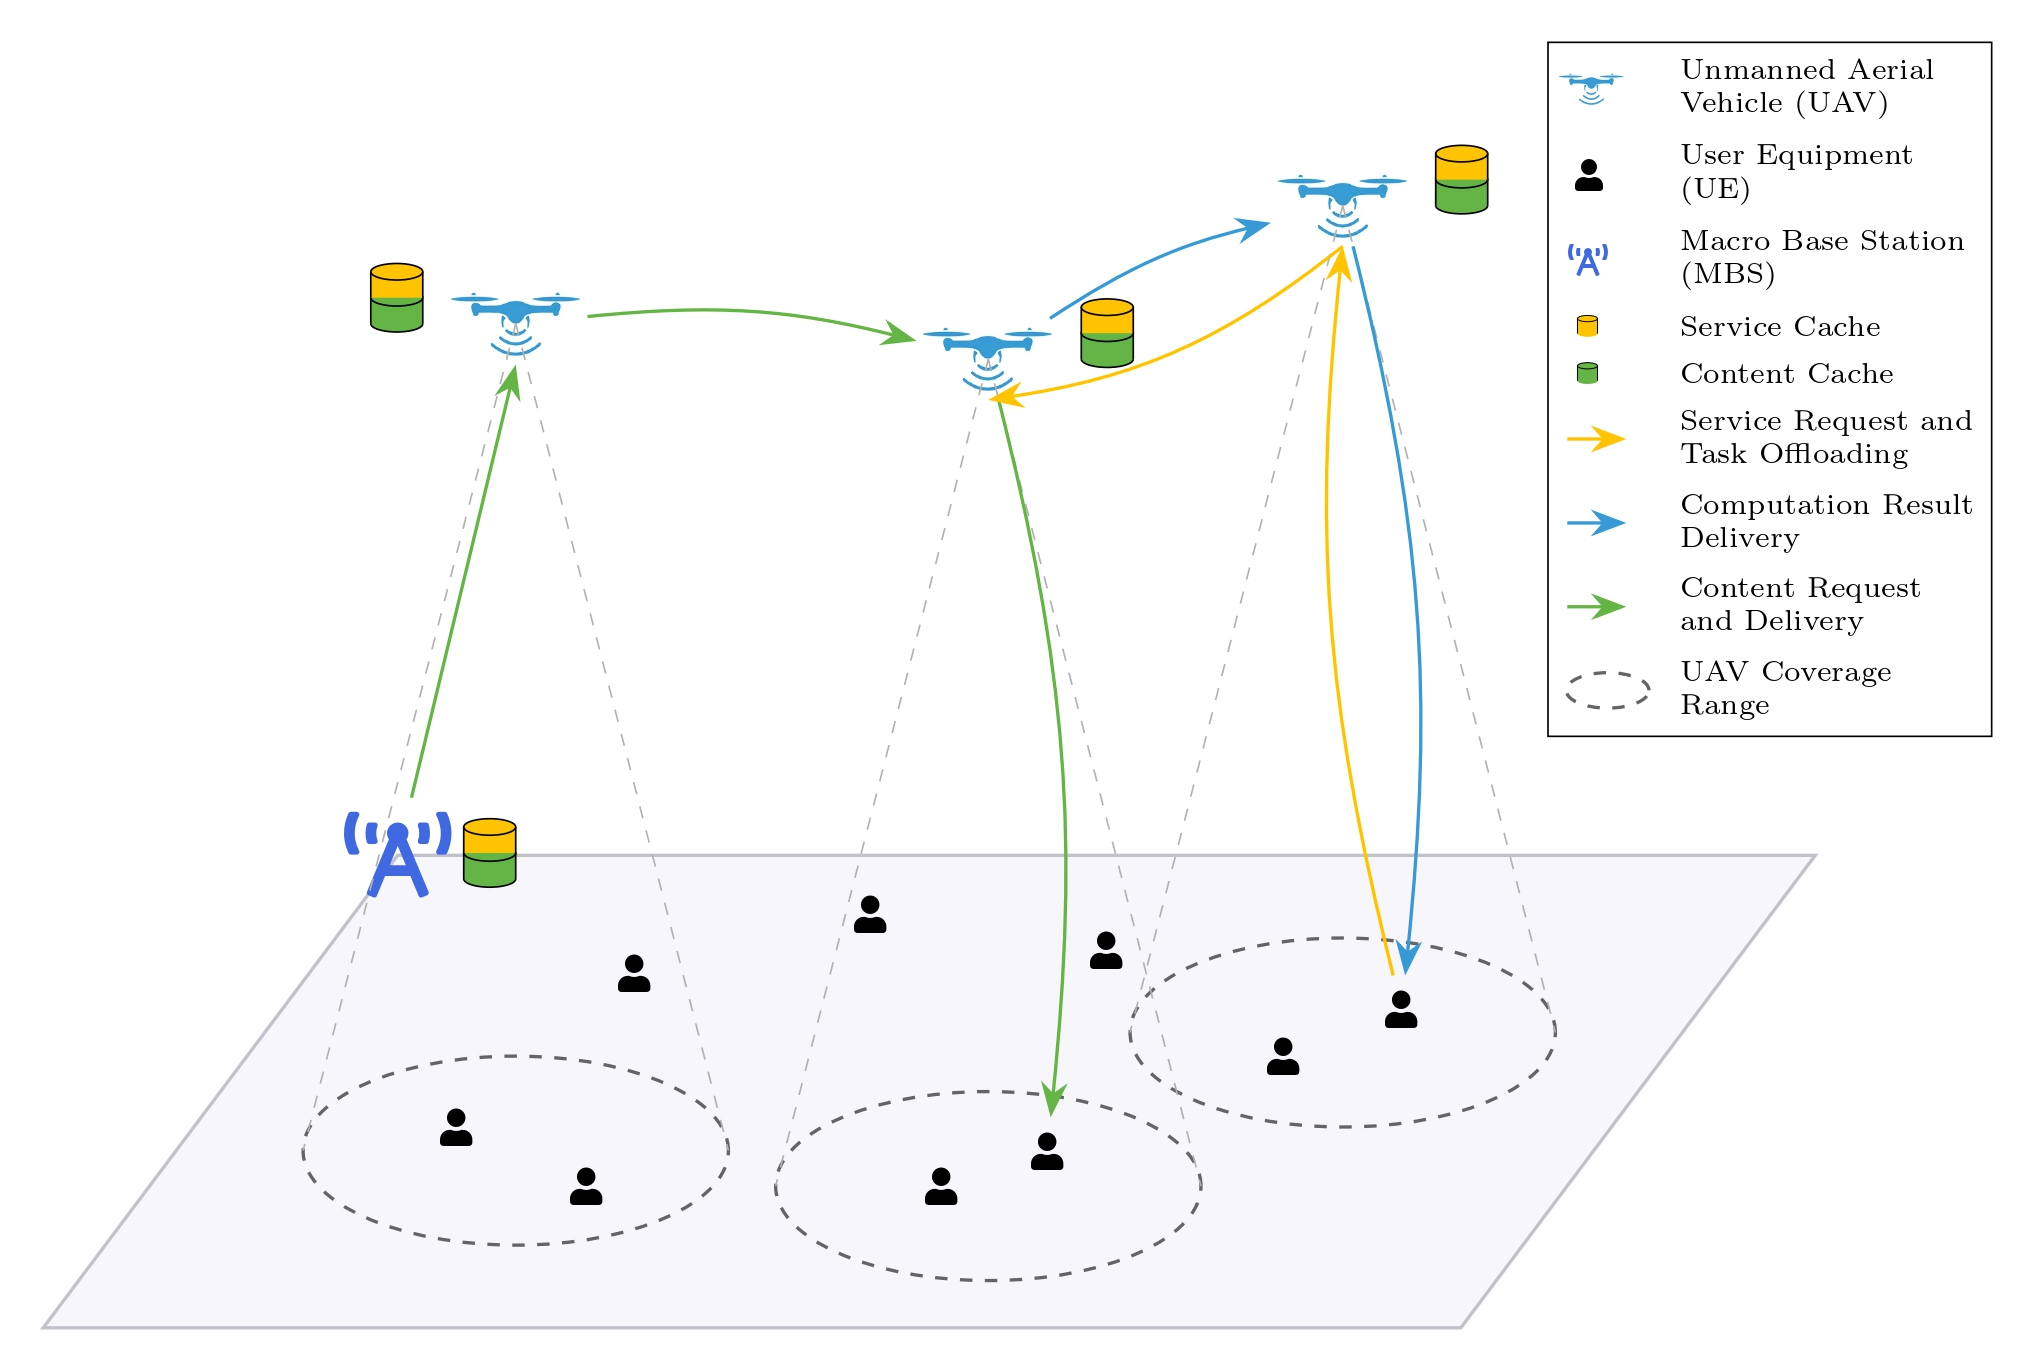
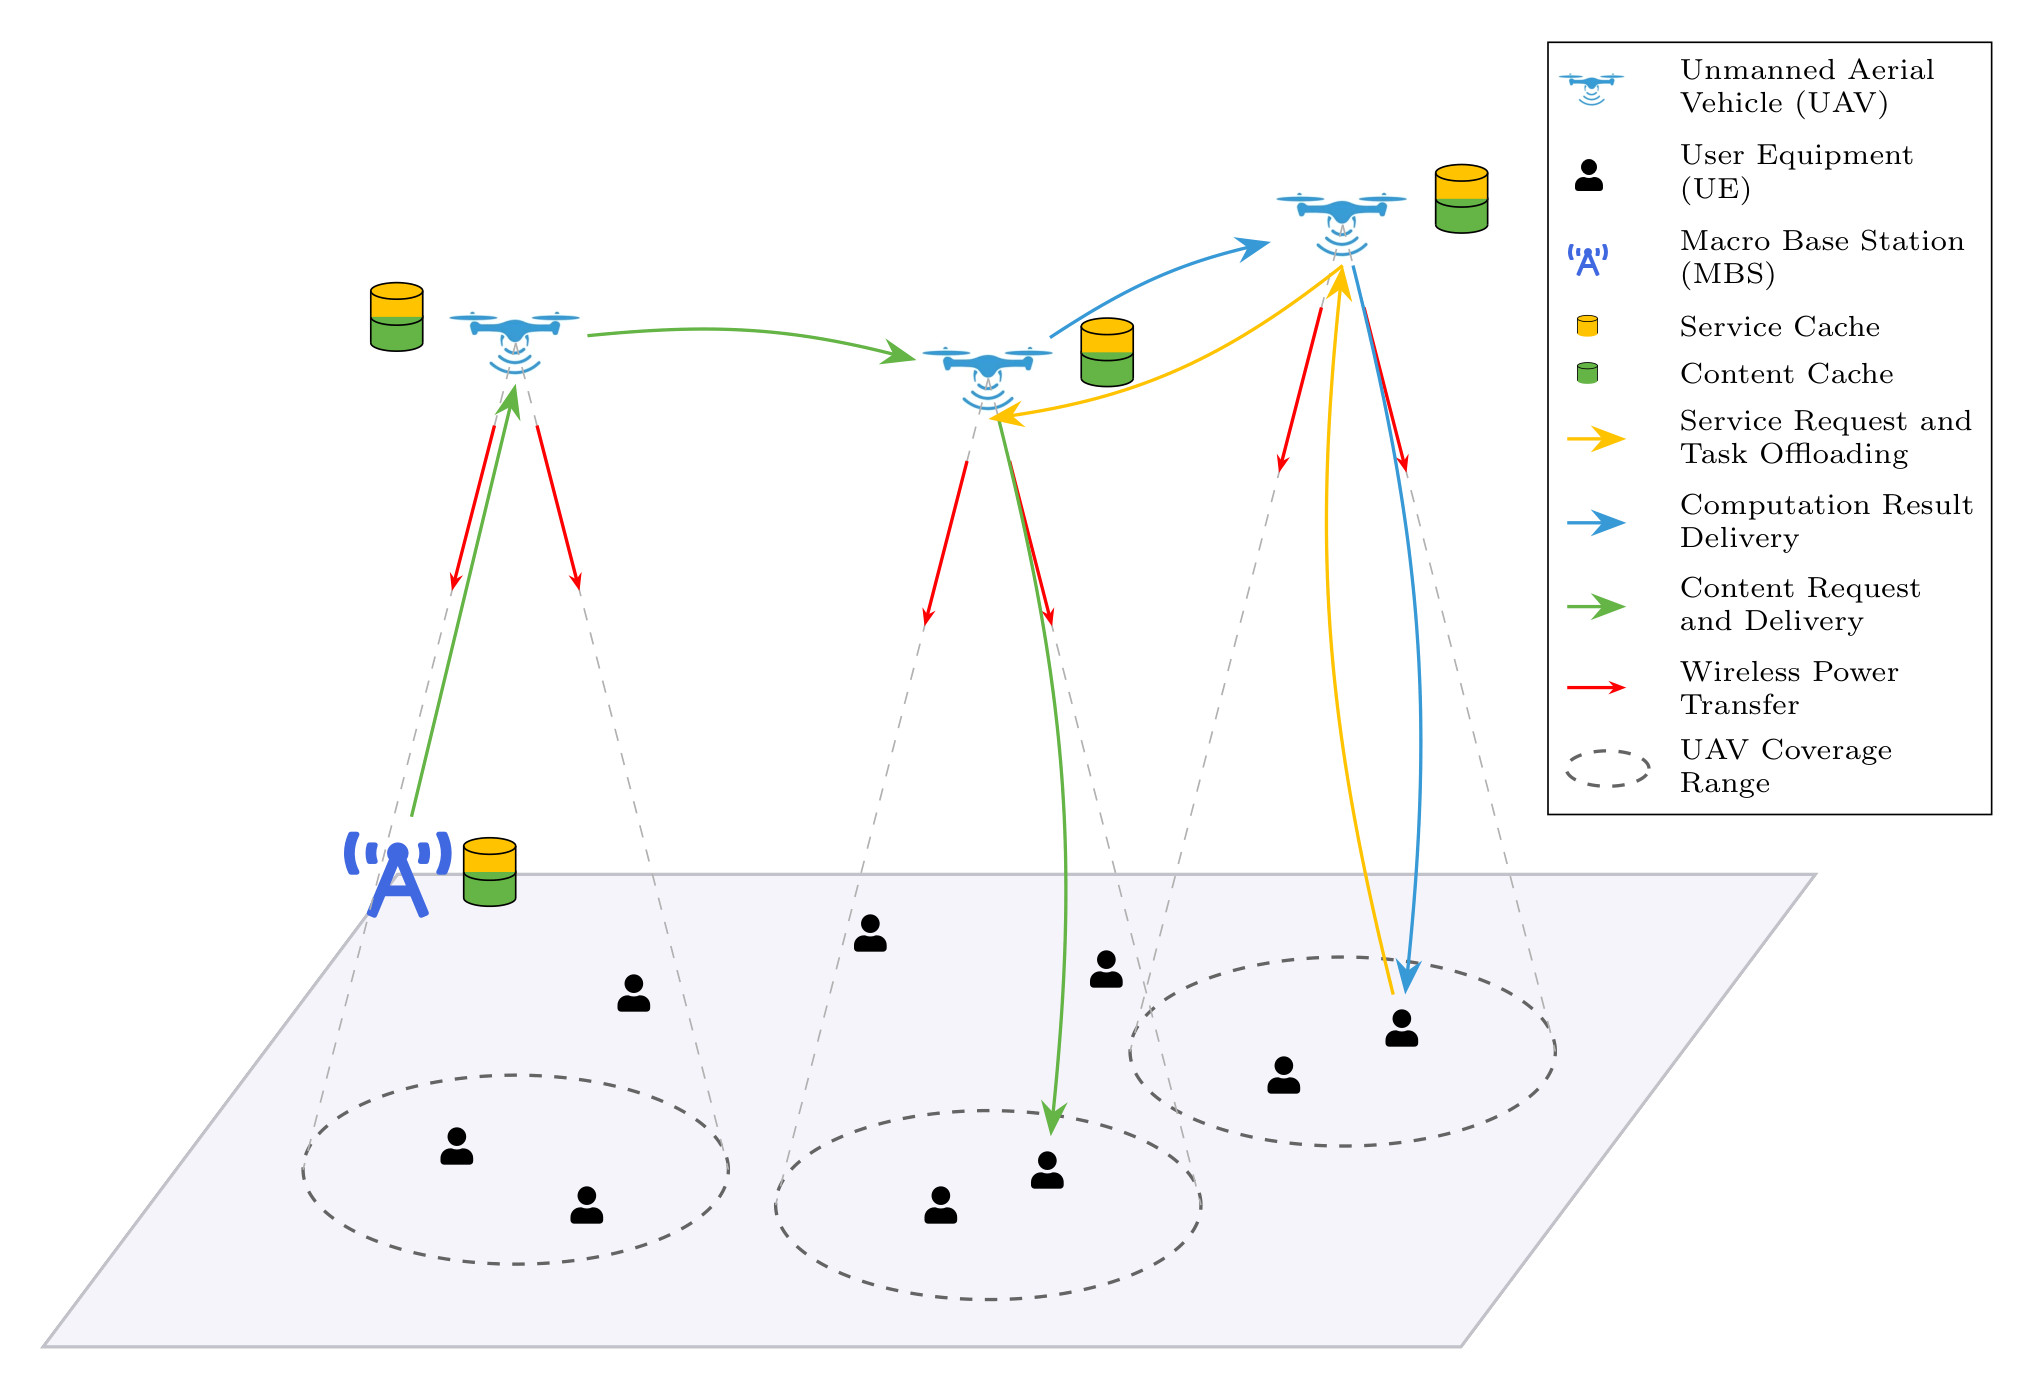
minor fixes

diff --git a/config.py b/config.py
@@ -108,7 +108,7 @@ EPSILON: float = 1e-9  # small value to prevent division by zero
 
 # Off-policy algorithm hyperparameters
 REPLAY_BUFFER_SIZE: int = 10**6  # B
-REPLAY_BATCH_SIZE: int = 64  # minibatch size
+REPLAY_BATCH_SIZE: int = 256  # minibatch size
 INITIAL_RANDOM_STEPS: int = 5000  # steps of random actions for exploration
 LEARN_FREQ: int = 5  # steps to learn after
 
@@ -126,7 +126,7 @@ NOISE_CLIP: float = 0.5  # range to clip target policy smoothing noise
 PPO_ROLLOUT_LENGTH: int = 2048  # number of steps to collect per rollout before updating
 PPO_GAE_LAMBDA: float = 0.95  # lambda parameter for GAE
 PPO_EPOCHS: int = 10  # number of epochs to run on the collected rollout data
-PPO_BATCH_SIZE: int = 64  # size of mini-batches to use during the update step
+PPO_BATCH_SIZE: int = 512  # size of mini-batches to use during the update step
 PPO_CLIP_EPS: float = 0.2  # clipping parameter (epsilon) for the PPO surrogate objective
 PPO_ENTROPY_COEF: float = 0.01  # coefficient for the entropy bonus to encourage exploration
 

diff --git a/environment/env.py b/environment/env.py
@@ -93,10 +93,11 @@ class Env:
             for i, ue in enumerate(ues):
                 delta_pos: np.ndarray = (ue.pos[:2] - uav.pos[:2]) / config.AREA_WIDTH
                 req_type, req_size, req_id = ue.current_request
+                norm_type: float = float(req_type) / 2.0  # assuming 3 types: 0,1,2
                 norm_id: float = float(req_id) / float(config.NUM_FILES)
                 norm_size: float = float(req_size) / float(config.MAX_INPUT_SIZE)
                 norm_battery: float = ue.battery_level / config.UE_BATTERY_CAPACITY
-                request_info: np.ndarray = np.array([req_type, norm_size, norm_id, norm_battery], dtype=np.float32)
+                request_info: np.ndarray = np.array([norm_type, norm_size, norm_id, norm_battery], dtype=np.float32)
                 ue_states[i, :] = np.concatenate([delta_pos, request_info])
 
             # Part 4: Combine all parts into a single, flat observation vector

diff --git a/marl_models/buffer_and_helpers.py b/marl_models/buffer_and_helpers.py
@@ -115,7 +115,7 @@ class RolloutBuffer:
         self.step = 0
 
 
-def soft_update(target_net: torch.nn.Module, source_net: torch.nn.Module, tau: float):
+def soft_update(target_net: nn.Module, source_net: nn.Module, tau: float):
     """Performs a soft update of the target network's parameters."""
     with torch.no_grad():
         for target_param, param in zip(target_net.parameters(), source_net.parameters()):

diff --git a/README.md b/README.md
@@ -1,10 +1,12 @@
-# Multi-UAV Assisted Mobile Edge Computing: A Hybrid Optimization Approach
+# Multi-UAV Assisted Wireless Powered Mobile Edge Computing: A Hybrid Optimization Approach
 
 ## Objective
 
-The primary objective of this research is to develop a framework for a multi-UAV-assisted collaborative Mobile Edge Computing (MEC) network. We aim to jointly optimize four interdependent components: task offloading decisions, service caching placement, content caching strategies, and UAV trajectories. The goal is to minimize a weighted sum of service latency and system-wide energy consumption while simultaneously maximizing user fairness.
+The primary objective of this research is to develop a framework for a multi-UAV-assisted collaborative Mobile Edge Computing (MEC) network. We aim to jointly optimize the interdependent components: task offloading decisions, service caching placement, content caching strategies, UAV trajectories and wireless power transfer. The goal is to minimize service latency, system-wide energy consumption, device offline rate while simultaneously maximizing user fairness.
 
-We are aiming to implement a hybrid optimization approach that combines **multi-agent deep reinforcement learning** with **collaborative and adaptive caching policies**. We are trying to create a generic framework that can be used with different models for finding the best-suited one for our purpose. Also trying to incorporate modern Python practices and type annotations. Developed using Python 3.12.0 and PyTorch 2.8.0.
+We are aiming to implement a hybrid optimization approach that combines **multi-agent deep reinforcement learning** with **collaborative and adaptive caching policies**. We are trying to create a generic framework that can be used with different models for finding the best-suited one for our purpose. We are also exploring incorporating attention mechanisms within the multi-agent reinforcement learning models for scalability and improved performance.
+
+Also trying to incorporate modern Python practices and type annotations. Developed using Python 3.12.0 and PyTorch 2.8.0.
 
 Currently included MARL models:
 - MADDPG (Multi-Agent Deep Deterministic Policy Gradient)
